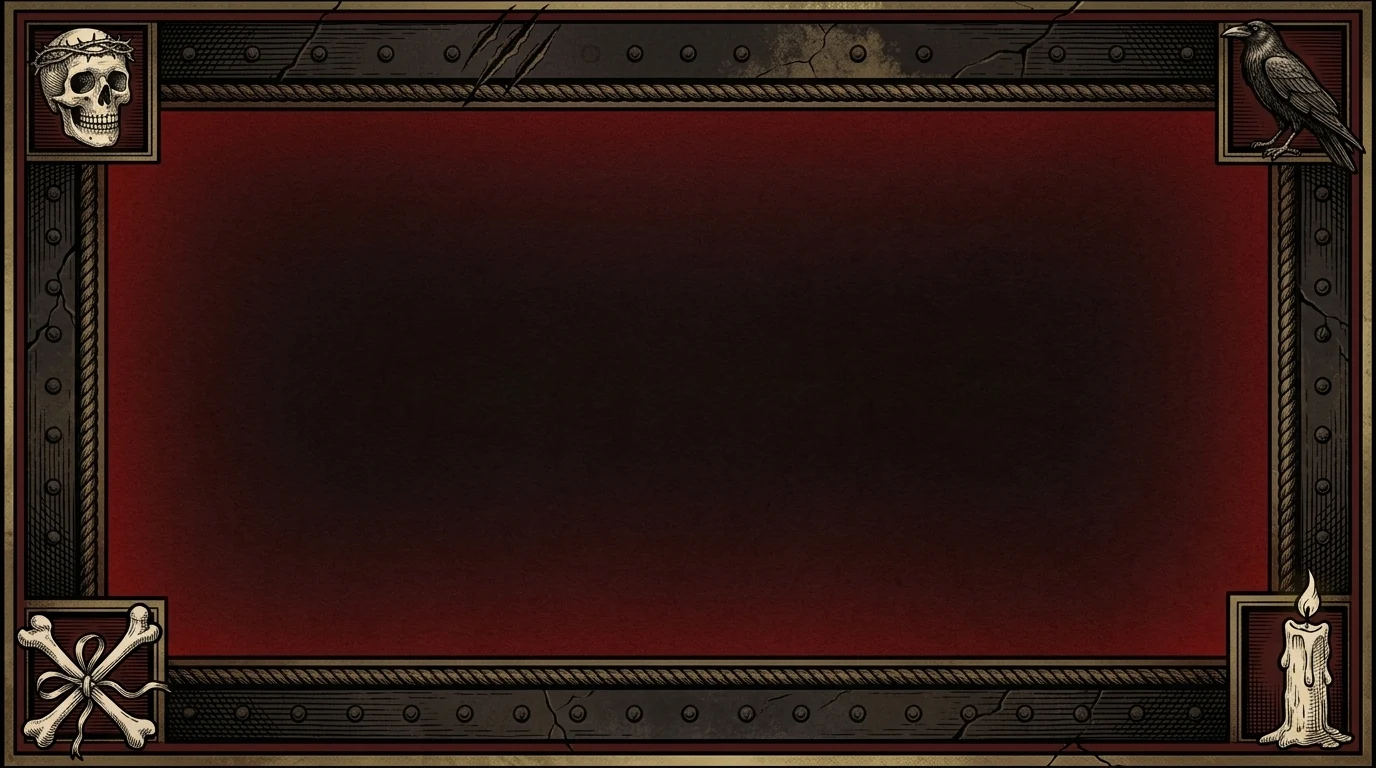
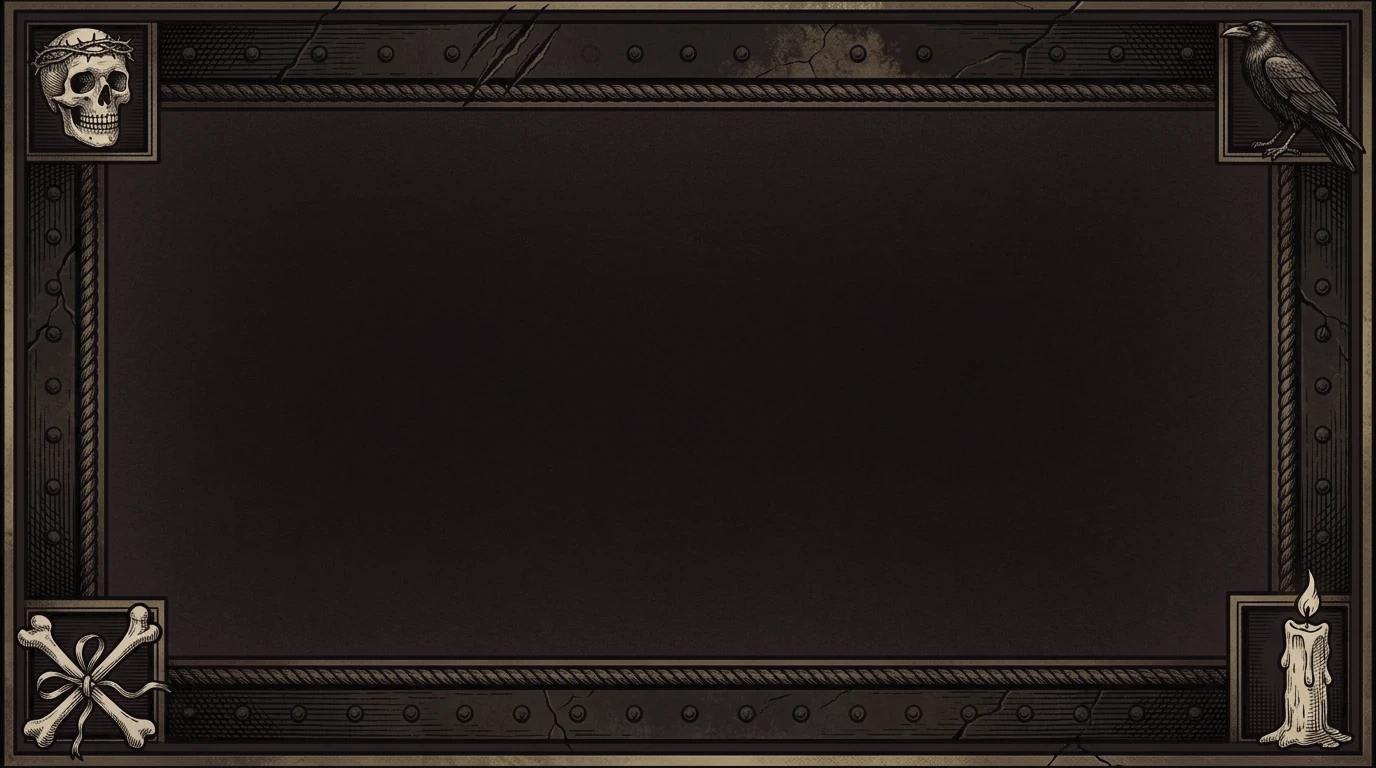
Death screen frame and fields match the defeat backdrop (2.33.0)
Claude-Session: https://claude.ai/code/session_01XgBzxw2LuMoQsxah4t7Goq

diff --git a/index.html b/index.html
@@ -1051,6 +1051,7 @@ main.solo:has(> .end) > details.lb { margin: 0; max-width: none; }
 .end.dead, main.solo .end.dead { border-image: url(assets/ui/frame-dead.webp) 170 fill / 34px stretch; padding: 24px 26px; } /* the engraved death frame on every screen; roomy ones draw it larger below */
 .end .label.ending { color: #b5666b; letter-spacing: .2em; }
 .end.dead h2 { color: #c9575c; font-size: 38px; text-shadow: 0 2px 0 #000; }
+.end.dead textarea, .end.dead input#pname, main.solo:has(> .end.dead) > details { filter: sepia(.8) hue-rotate(-14deg) saturate(.7) brightness(.92); } /* slate fields and bars take the death room's umber */
 .end .epitaph { margin: 0; max-width: 34ch; font: italic 400 21px/1.3 var(--body); color: var(--bone); text-wrap: balance; }
 .end .epitaph::before { content: '“'; } .end .epitaph::after { content: '”'; }
 .end .tally { margin: 0; font-size: 15px; }
@@ -2556,7 +2557,7 @@ img.clerk { box-shadow: none; border-radius: 0; object-fit: contain !important; 
 const E = window.Engine;
 // Semantic version: MAJOR = overhaul or redesign, MINOR = update, PATCH = bug fix. Bump it in every change and add a CHANGELOG.md entry.
 // Runs from before versioning carry the old tags 'v3' (first public playtest) and 'v4'.
-const VERSION = '2.32.0';
+const VERSION = '2.33.0';
 // Web build only: where run reports go (a Google Form). Empty in the Claude-hosted build.
 const REPORT = {"url": "https://docs.google.com/forms/d/e/1FAIpQLScAulcyNeUuIkKvoNN67TcOBPP4DqzCyN0W5lsdEM4vQ-SZ4w/formResponse", "entry": "entry.1553952563"};
 const BOARD_CSV = "https://docs.google.com/spreadsheets/d/e/2PACX-1vSUVN5ytJFkGg9NFstRvqxNMD3CIX85ApjWW1Hc8mw0DPSgz31VPmJhZ07FcwhStCdDALGtq5ZI2L8r/pub?gid=1200368070&single=true&output=csv"; // the Sheet's published Leaderboard tab; empty hides the board

diff --git a/src/ui.html b/src/ui.html
@@ -1050,6 +1050,7 @@ main.solo:has(> .end) > details.lb { margin: 0; max-width: none; }
 .end.dead, main.solo .end.dead { border-image: url(assets/ui/frame-dead.webp) 170 fill / 34px stretch; padding: 24px 26px; } /* the engraved death frame on every screen; roomy ones draw it larger below */
 .end .label.ending { color: #b5666b; letter-spacing: .2em; }
 .end.dead h2 { color: #c9575c; font-size: 38px; text-shadow: 0 2px 0 #000; }
+.end.dead textarea, .end.dead input#pname, main.solo:has(> .end.dead) > details { filter: sepia(.8) hue-rotate(-14deg) saturate(.7) brightness(.92); } /* slate fields and bars take the death room's umber */
 .end .epitaph { margin: 0; max-width: 34ch; font: italic 400 21px/1.3 var(--body); color: var(--bone); text-wrap: balance; }
 .end .epitaph::before { content: '“'; } .end .epitaph::after { content: '”'; }
 .end .tally { margin: 0; font-size: 15px; }
@@ -1655,7 +1656,7 @@ img.clerk { box-shadow: none; border-radius: 0; object-fit: contain !important; 
 const E = window.Engine;
 // Semantic version: MAJOR = overhaul or redesign, MINOR = update, PATCH = bug fix. Bump it in every change and add a CHANGELOG.md entry.
 // Runs from before versioning carry the old tags 'v3' (first public playtest) and 'v4'.
-const VERSION = '2.32.0';
+const VERSION = '2.33.0';
 // Web build only: where run reports go (a Google Form). Empty in the Claude-hosted build.
 const REPORT = { url: '', entry: '' }; /*REPORT_CONFIG*/
 const BOARD_CSV = ''; /*BOARD_CONFIG*/ // the Sheet's published Leaderboard tab; empty hides the board

diff --git a/CHANGELOG.md b/CHANGELOG.md
@@ -8,6 +8,10 @@ Scapegrace (called Guild Ledger before 1.20.0) uses a three-part version number,
 
 The version lives in `VERSION` near the top of the script in `src/ui.html`. It is shown at the bottom of every screen and sent with every run report, so feedback can be matched to the build that produced it.
 
+## 2.33.0
+
+- The death screen now matches its backdrop: the engraved frame and the panel behind the text are in the same dim umber and candlelit stone as the room with the goat, instead of bright crimson. The name and note fields and the Top scores and Log bars under the panel take the same tone.
+
 ## 2.32.0
 
 - The spot a played card leaves behind is now an engraved stone recess with brass corners and a hoof print, drawn by Dude, instead of the faint ink outline. It is already there under the card as the card starts to leave, so the card lifts off it.
